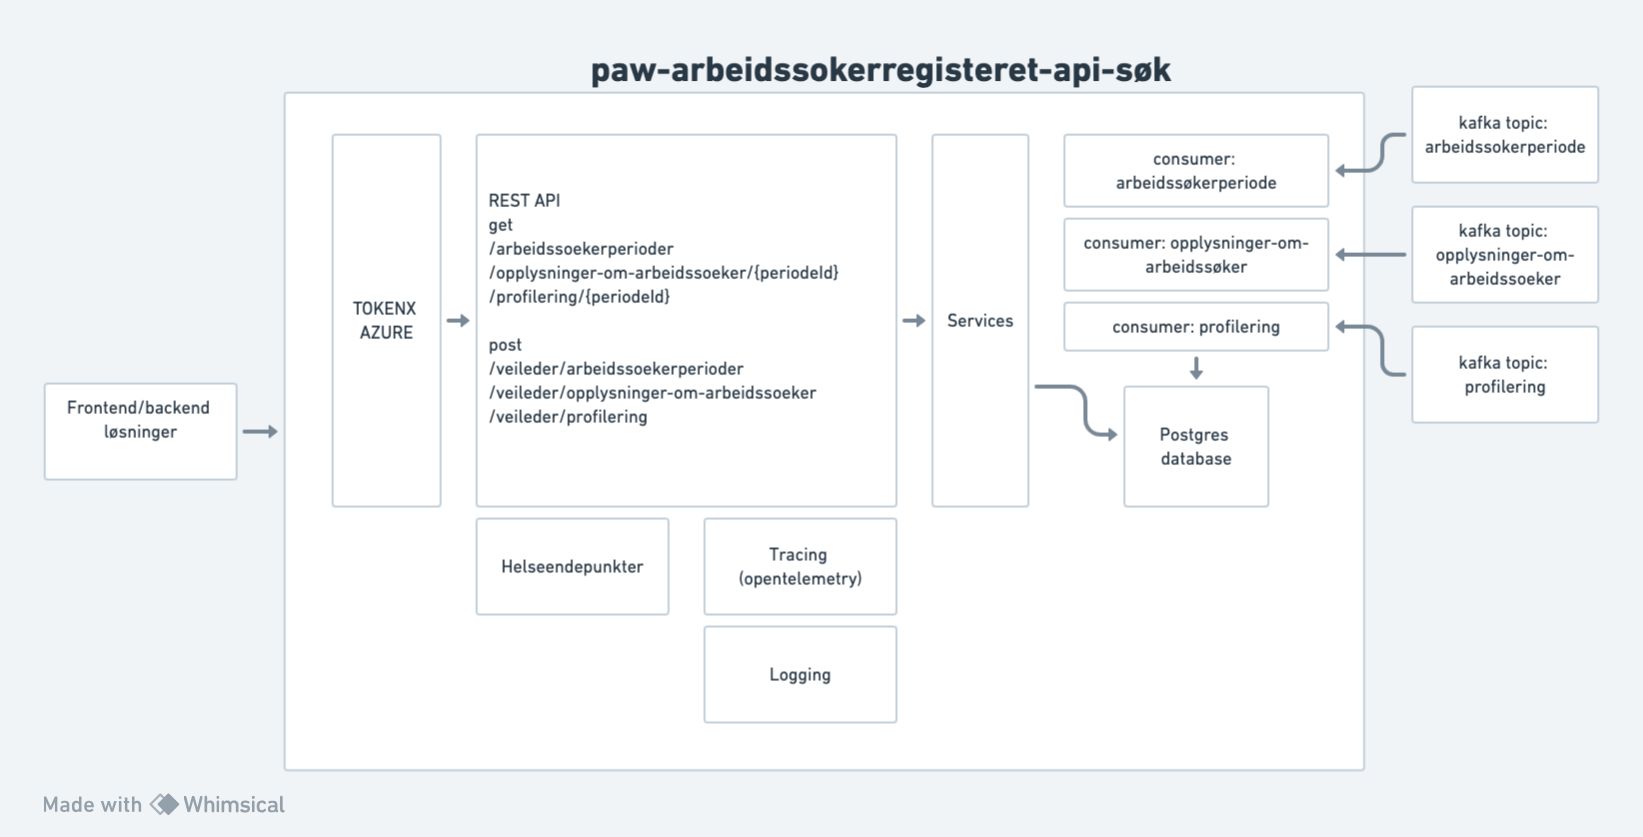
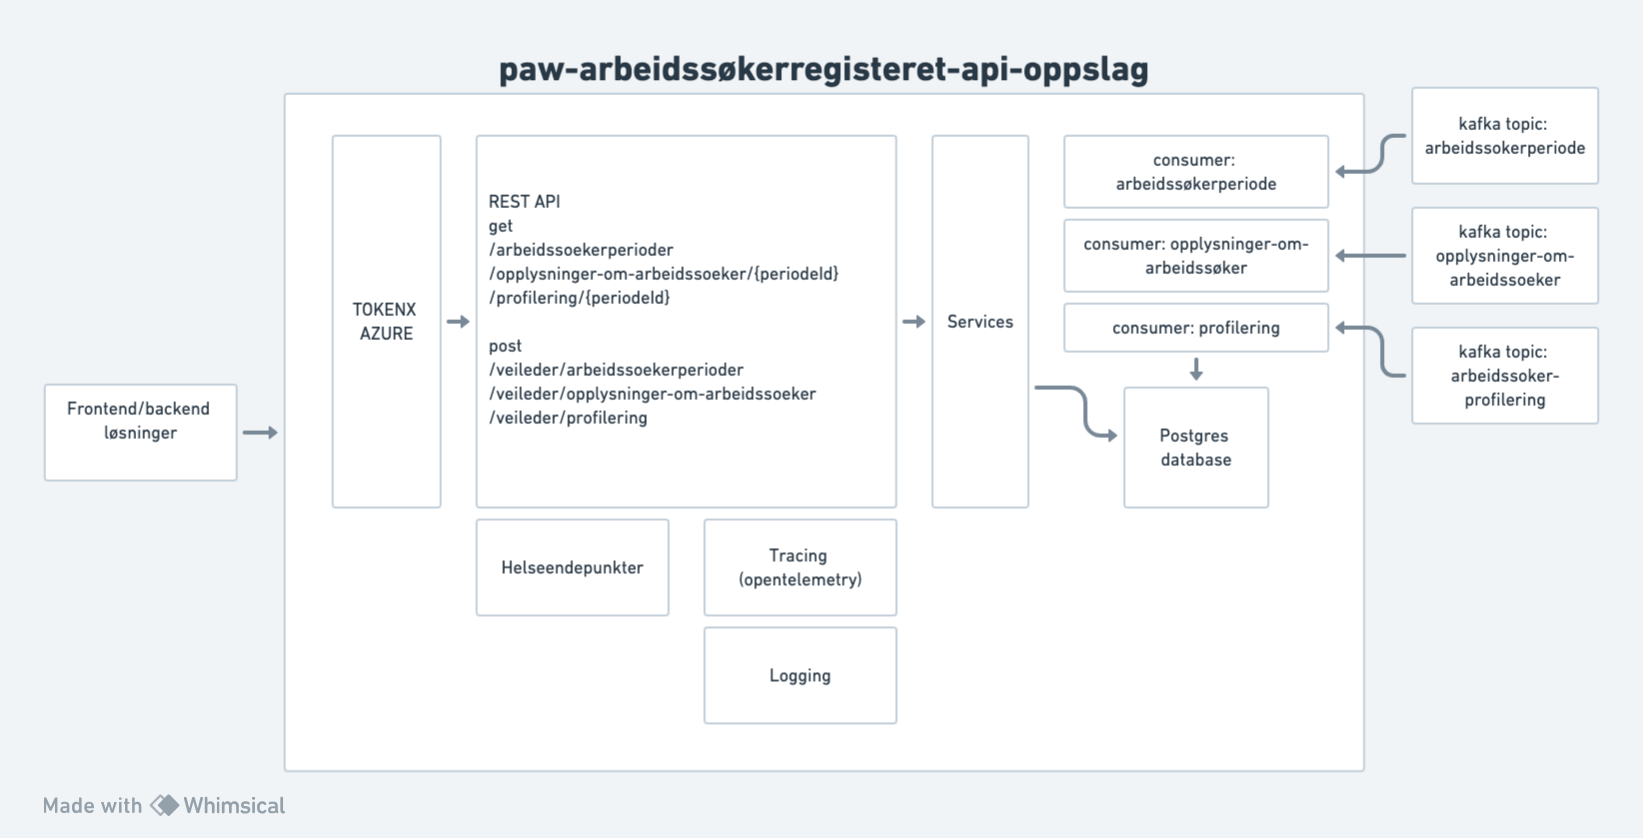
Oppdatert flytdiagram og link til flytdiagram

diff --git a/README.md b/README.md
@@ -9,7 +9,7 @@ https://oppslag-arbeidssoekerregisteret.intern.dev.nav.no/docs
 ## Flytdiagram
 
 ![Flytdiagram](docs/flytdiagram.png)
-[Link til flytdiagram](https://whimsical.com/paw-arbeidssokerregisteret-api-U87hbLkoU52ZVsnpYYccyg)
+[Link til flytdiagram](https://whimsical.com/paw-arbeidssoekerregisteret-api-oppslag-U87hbLkoU52ZVsnpYYccyg)
 
 ## Teknologier
 
